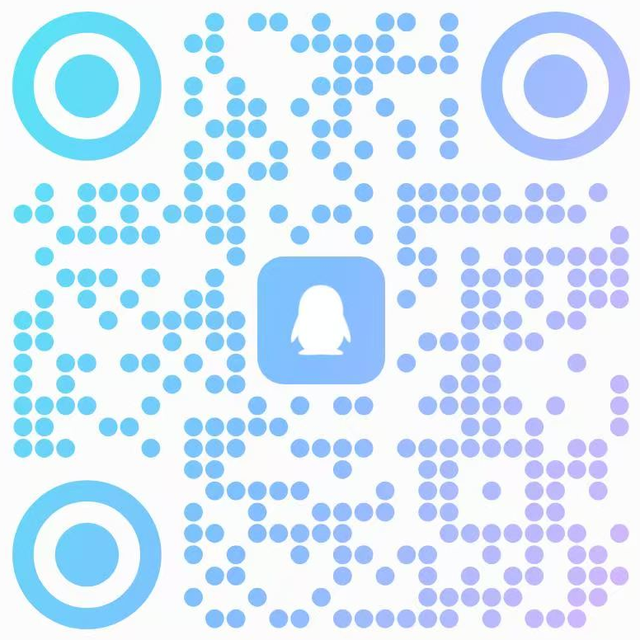
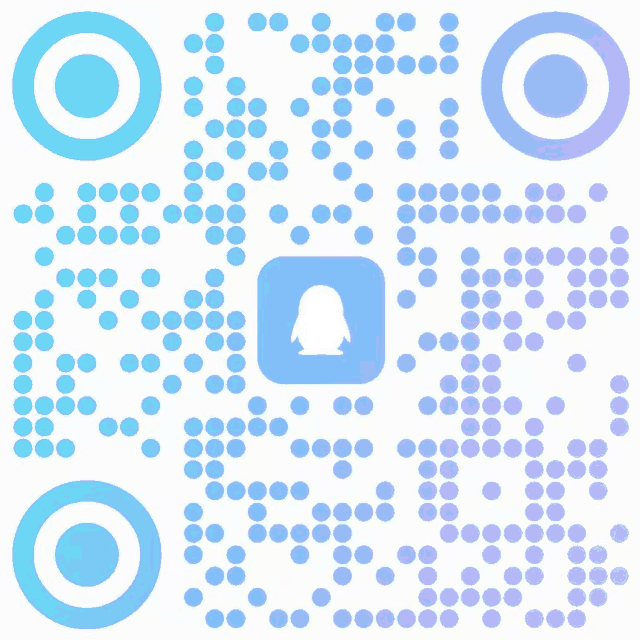
perf: 二维码改为 WebP + PNG 双格式并去掉懒加载
- 640×640 二维码压缩为 16 色：webp 75KB / png 168KB（原 442KB）
- 使用 <picture> 提供 webp 优先、png 兜底
- 修复截图中二维码懒加载未触发的空白

diff --git a/index.html b/index.html
@@ -286,7 +286,10 @@ qmin start</code></pre>
       </div>
     </div>
     <figure class="join__qr">
-      <img src="assets/qq-group.png" alt="Qmin（简Q）交流群二维码，群号 1058165303" width="640" height="640" loading="lazy">
+      <picture>
+        <source srcset="assets/qq-group.webp" type="image/webp">
+        <img src="assets/qq-group.png" alt="Qmin（简Q）交流群二维码，群号 1058165303" width="640" height="640">
+      </picture>
       <figcaption class="mono">扫码加入 · 群号 1058165303</figcaption>
     </figure>
   </section>
